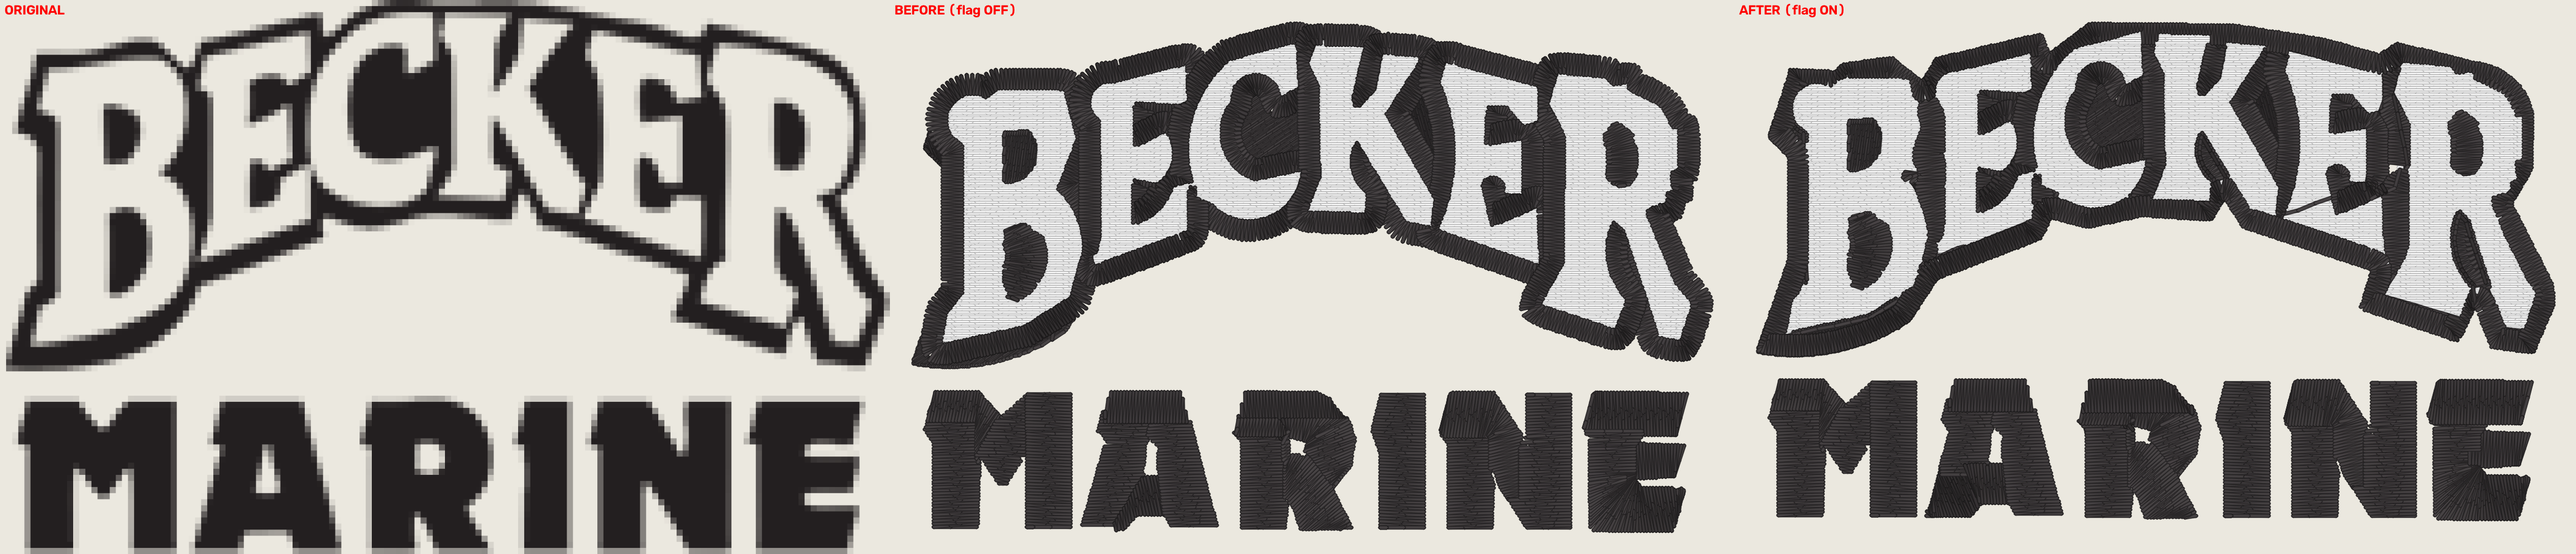
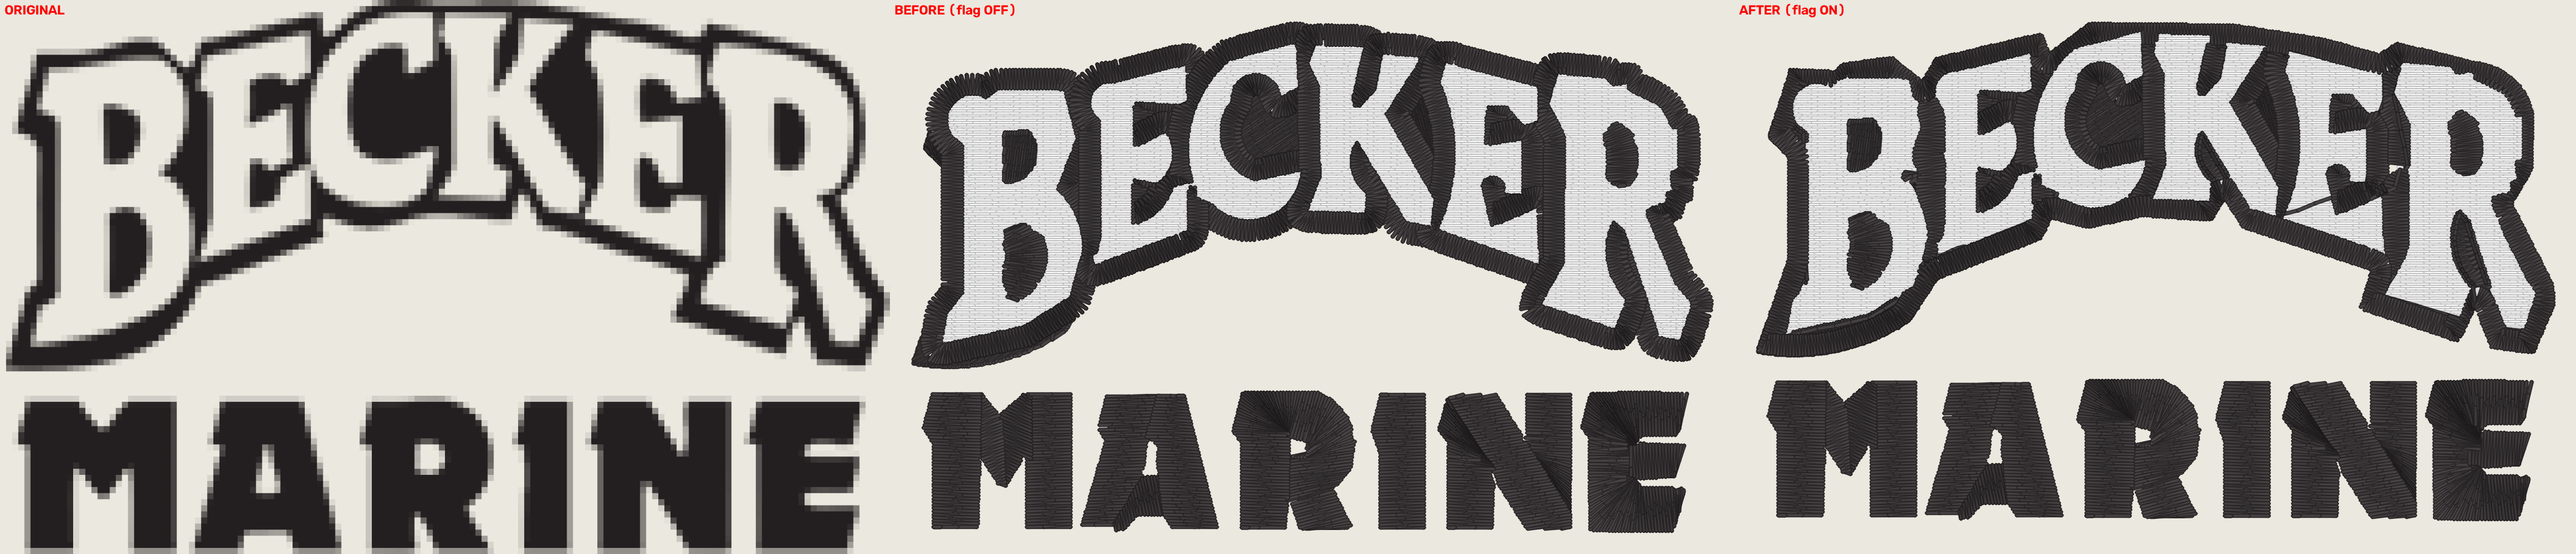
outline_one_band (OFF): the band ends where the loops ended, no walk over a stem; final evidence (#1663)
* outline_loop_split_shared (built OFF): two face loops no longer both cover the stem between letters (Becker large B/E dip)

Claude-Session: https://claude.ai/code/session_01SfRndLv1i9VX4t8JWKQRf4

* MEMORY.md: put the outline-loop-split-shared entry in alphabetical order (CI test_memory_budget)

Claude-Session: https://claude.ai/code/session_01SfRndLv1i9VX4t8JWKQRf4

* outline_one_band (built OFF): one border band round a word, a column for each stem between its faces (Becker large)

The outline is sewn as one satin loop on the band's outer ring, last, and one satin
column per stem between two faces, first; the hole loops keep only the strips neither
covers. 35 runs: 2 move, 33 byte-identical, OFF byte-identical on all 35.

Claude-Session: https://claude.ai/code/session_01SfRndNWG1h2hnYMnZLY5DV

* outline_one_band: walk between pieces inside the band (trims 19->20 on Becker large), cap-edge evidence, test_run_spans asserts the satin-arc emitter only with the flag OFF

Claude-Session: https://claude.ai/code/session_01SfRndNWG1h2hnYMnZLY5DV

* outline_one_band: end the band where the loops end (downstream order kept), walk inside the band, keep the outer loop out of faces; archive two index lines (memory budget)

Claude-Session: https://claude.ai/code/session_01SfRndNWG1h2hnYMnZLY5DV

* outline_one_band: no walk over a finished stem

Claude-Session: https://claude.ai/code/session_01SfRndNWG1h2hnYMnZLY5DV
[…]

diff --git a/digitizer/digitizer_core/outline_band.py b/digitizer/digitizer_core/outline_band.py
@@ -236,7 +236,7 @@ def _centre_walk(band: Polygon, centre: LineString | None, a, b):
 
 
 def _hop(runs: list, new: list, cursor, band: Polygon, shape_id: str, trim_at_mm: float,
-         centre: LineString | None = None, guides=None) -> int:
+         centre: LineString | None = None, guides=None, sewn=None) -> int:
     """The needle's way to the first stitch of `new`: through the band where a
     route exists (`travel_path`), else a lift, cut past `trim_at_mm`, as
     `keyline_runs` leaves its own loops. -> lifts made."""
@@ -246,9 +246,7 @@ def _hop(runs: list, new: list, cursor, band: Polygon, shape_id: str, trim_at_mm
     d = math.dist(cursor, to)
     if d < machine.TINY_STITCH_MM:
         return 0
-    bridge = travel_path(band, guides, cursor, to)
-    if bridge is None:
-        bridge = _centre_walk(band, centre, cursor, to)
+    bridge = _route(band, guides, centre, cursor, to, sewn)
     if bridge is None:
         new[0].jump = True
         new[0].trim = d > trim_at_mm
@@ -258,7 +256,21 @@ def _hop(runs: list, new: list, cursor, band: Polygon, shape_id: str, trim_at_mm
     return 0
 
 
-def _reroute(new: list, cursor, band: Polygon, shape_id: str, centre, guides) -> list:
+def _route(band: Polygon, guides, centre, a, b, sewn=None):
+    """The needle's way a -> b inside the band: along the band (`travel_path` on `guides`),
+    else round the outer loop's centre line; a route that runs over finished thread
+    (`sewn`: the stems already sewn) for more than half a millimetre is no route."""
+    for make in (lambda: travel_path(band, guides, a, b), lambda: _centre_walk(band, centre, a, b)):
+        r = make()
+        if r is None:
+            continue
+        if sewn is not None and len(r) > 1 and LineString(r).intersection(sewn).length > 0.5:
+            continue
+        return r
+    return None
+
+
+def _reroute(new: list, cursor, band: Polygon, shape_id: str, centre, guides, sewn=None) -> list:
     """`new` with every lift inside it (and the lift into it) walked through the band
     where a route exists (`_hop`), so the needle is cut only where none does."""
     out: list = []
@@ -270,9 +282,7 @@ def _reroute(new: list, cursor, band: Polygon, shape_id: str, centre, guides) ->
         if last is not None and (r.jump or r.trim):
             d = math.dist(last, r.points[0])
             if d >= machine.TINY_STITCH_MM:
-                bridge = travel_path(band, guides, last, r.points[0])
-                if bridge is None:
-                    bridge = _centre_walk(band, centre, last, r.points[0])
+                bridge = _route(band, guides, centre, last, r.points[0], sewn)
                 if bridge is not None:
                     if len(bridge) > 1:
                         out.append(StitchRun(points=bridge[:-1], kind=stitches.TRAVEL, shape_id=shape_id))
@@ -338,6 +348,7 @@ def one_band_runs(art: Polygon, rings: list[tuple[Polygon, float]], shape_id: st
             report["outline_loops"] += h_rep["loops"]
             cursor = runs[-1].points[-1]
     # the stems, each a satin column of its own: the outer loop covers the top of each
+    sewn = None
     todo = sorted(stems, key=lambda g: (round(g.centroid.y, 3), round(g.centroid.x, 3)))
     while todo:
         if cursor is None:
@@ -352,9 +363,10 @@ def one_band_runs(art: Polygon, rings: list[tuple[Polygon, float]], shape_id: st
                                     **satin_kw)
         if s_rep.get("empty") or not s_runs:
             return [], report                     # a stem the satin cannot sew: keep the loops
-        s_runs = _reroute(s_runs, cursor, art, shape_id, centre, guides)
-        report["jumps"] += _hop(runs, s_runs, cursor, art, shape_id, trim_at_mm, centre, guides)
+        s_runs = _reroute(s_runs, cursor, art, shape_id, centre, guides, sewn)
+        report["jumps"] += _hop(runs, s_runs, cursor, art, shape_id, trim_at_mm, centre, guides, sewn)
         runs += s_runs
+        sewn = piece.buffer(0.05) if sewn is None else sewn.union(piece.buffer(0.05))
         report["stems"] += 1
         cursor = runs[-1].points[-1]
     # ... and the one band on the outer ring, last
@@ -370,8 +382,8 @@ def one_band_runs(art: Polygon, rings: list[tuple[Polygon, float]], shape_id: st
         return [], report
     _keep_out_of_faces(o_runs, unary_union([h for h, _w in rings]).buffer(-0.0005),
                        LineString(list(art.exterior.coords)))
-    o_runs = _reroute(o_runs, cursor, art, shape_id, centre, guides)
-    report["jumps"] += _hop(runs, o_runs, cursor, art, shape_id, trim_at_mm, centre, guides)
+    o_runs = _reroute(o_runs, cursor, art, shape_id, centre, guides, sewn)
+    report["jumps"] += _hop(runs, o_runs, cursor, art, shape_id, trim_at_mm, centre, guides, sewn)
     runs += o_runs
     report["jumps"] += o_rep["jumps"]
     report["outline_loops"] += o_rep["loops"]

diff --git a/docs/renders/outline-one-band-2026-11-18/README.md b/docs/renders/outline-one-band-2026-11-18/README.md
@@ -22,8 +22,8 @@ outline shape (`S92f2350b`: 1201 mm2, 5 face holes at 102 mm) is sewn differentl
 
 | | stitches | runs | trims | jumps | outline runs by kind OFF -> ON |
 |---|---|---|---|---|---|
-| becker_hat_large | 16265 -> 16195 | 182 -> 268 | 19 -> 20 | 20 -> 20 | satin 5 -> ~56, travel 8 -> ~35, underlay 7 -> 7, fill 4 -> 4, run 0 -> 1 |
-| fx_becker_marine_logo (80 mm) | 10672 -> 10403 | 156 -> 195 | 15 -> 19 | 16 -> 22 | satin 5 -> ~37, travel 7 -> ~14, fill 2 -> 2 |
+| becker_hat_large | 16287 -> 16289 | 164 -> 246 | 20 -> 21 | 20 -> 21 | satin 5 -> ~56, travel 8 -> ~35, underlay 7 -> 7, fill 4 -> 4, run 0 -> 1 |
+| fx_becker_marine_logo (80 mm) | 10855 -> 10500 | 137 -> 183 | 14 -> 20 | 14 -> 20 | satin 5 -> ~37, travel 7 -> ~14, fill 2 -> 2 |
 
 What is new: ONE satin loop on the band's outer ring (last), one satin column per stem
 (the B/E stem is one 20 mm column, the E/R stem another, a third at the lower-right), the
@@ -35,12 +35,12 @@ count and the trims come from), and travel inside the band under the outer loop.
 Better: the border passes the dip as one band, the stem is one column, no pile of two
 loops (before: two columns side by side down the stem, both fanning into the V). The
 E/R join is the same. **Worse:**
-* **Trims 19 -> 20 on Becker large (jumps 20 -> 20), 15 -> 19 at 80 mm (jumps 16 -> 22).**
-  First build: 19 -> 31. The needle now walks between the pieces inside the band
-  (`travel_path` along the band moved in 0.35 mm, else along the outer loop's centre
-  line), under the outer loop sewn last, and the stems go nearest-first. What is left:
-  the first hole arc (as OFF), two far hole arcs in the E/R stem, a stem's tail sewn as
-  a run, and the 80 mm design's extra arcs.
+* **Trims +1 on Becker large (20 -> 21, jumps 20 -> 21); +6 at 80 mm (14 -> 20).**
+  First build: +12 on Becker large. The needle walks between the pieces inside the band
+  (`travel_path` along the band moved in 0.35 mm, else along the outer loop's centre line,
+  never over a finished stem), under the outer loop sewn last; stems nearest-first; the
+  outer loop is entered where the loops it replaces would have ended. What is left: a stem's
+  tail sewn as a run, a far hole arc or two, and the 80 mm design's extra arcs.
 * A few thin black strips (0.5-1 mm satin arcs) along the face edge where the band is a
   little thicker than the outer loop reaches; they read as lines at print size.
 * A tiny white slit beside the B/E stem's lower column (closeup 3) and at the E/R
@@ -48,20 +48,52 @@ E/R join is the same. **Worse:**
 * At the V the outer loop's crosses still turn with the band's normal (they bunch in the
   notch); the pro's stay near-square to the band. Closer than before, not the pro's.
 
-## Related tests with the flag forced ON (227 files)
+## ALL 18 tripwire jobs (every placement) + the 26 fixtures, OFF vs ON (director 11-18, final build)
 
-3,978 passed, 7 failed. With the flag OFF (the default) all pass.
-* `test_flat_lane_byte_identical[enthusiast_logo]`: the known golden red.
+44 runs by stitch md5: **6 moved, 38 byte-identical.** The 35-run table above missed four
+(second placements of the same artwork). Needle-up = the straight gap the needle flies at each
+lift (`pro_baseline.needle_up`'s rule, from the design's stitch list).
+
+| run | stitches | trims | jumps | needle-up mm |
+|---|---|---|---|---|
+| becker_hat_large | 16,246 -> 16,246 | 19 -> 20 | 20 -> 21 | 489.6 -> **672.5** |
+| becker_hat_small | 10,319 -> 9,851 | 10 -> **18** | 14 -> 23 | 306.3 -> 319.0 |
+| becker_chest_small | 10,156 -> 9,698 | 9 -> **16** | 13 -> 21 | 303.5 -> 292.5 |
+| becker_beanie | 13,653 -> 13,330 | 13 -> **19** | 15 -> 21 | 385.0 -> 375.0 |
+| mfab_lc | 17,570 -> **18,467** | 19 -> 23 | 29 -> 33 | 504.9 -> 586.6 |
+| fx_becker_marine_logo (80 mm) | 10,826 -> 10,459 | 13 -> 19 | 14 -> 20 | 380.4 -> 362.9 |
+
+(becker_lc_large and the other 38 do not move.) All six pictured: `<run>.png`, `<run>_closeup.png`.
+
+**By eye, worse first:**
+* **becker_hat_small**: ON draws a white (bare) curved sliver across the top of the K where the
+  stem top meets the band (overview, AFTER, K top), and the band edge is rougher; trims 10 -> 18.
+* becker_chest_small, becker_beanie: same family as the small hat (trims +7 / +6).
+* becker_hat_large: needle-up travel +183 mm (more lifts between far pieces), trims +1.
+* **mfab_lc**: +897 stitches (+5%), +4 trims, +82 mm needle-up; no visible change at print size
+  (the white keyline reads the same). The gate was met by the LC placement's letters and stems.
+* The 102 mm and 80 mm Becker pictures above stand: one stem column, one continuous band.
+
+**Conclusion of this sweep: not ready to flip.** The small placements (76-80 mm) gain trims and one
+visible bare sliver; the grader's design (102 mm) gains the clean stem at +183 mm of needle-up.
+
+## Related tests with the flag forced ON (227 files, final build)
+
+3,985 passed, 4 failed. With the flag OFF (the default) all pass. The 4:
+* `test_flat_lane_byte_identical[enthusiast_logo]`: the known golden red (CI deselects it).
 * `test_outline_one_band::test_field_defaults_off`: the default forced for the run.
-* `test_silhouette_underfill_panels` (2): md5 pins of Becker / MFab stitch bytes.
-* `test_wide_columns::test_the_fold_guard_keeps_a_wide_column_on_a_bend_under_the_warn_line`:
-  `coverage_max` 6.14 -> 6.71 against the 6.667 warn line, at ONE cell on a MARINE letter
-  (`S3747f7f5`, one hole: the flag does not sew it differently; its entry point moves, so its
-  column is re-phased).
-* `test_run_spans::test_the_design_cap_keeps_its_own_role_through_the_border_emitter`:
-  the Becker fixture's design cap has no BORDER-kind stitch with the flag ON (the outer
-  loop covers the edge the cap would have sewn).
-No test was pinned OFF; the director has both guard figures.
+* `test_silhouette_underfill_panels` (2): md5 pins of Becker / MFab stitch bytes (a flip
+  would re-pin them).
+Two guard figures moved the wrong way in earlier builds and are now back:
+* `test_wide_columns` fold-guard test: `coverage_max` on Becker 114 mm was 6.14 OFF, 6.71 ON
+  (warn line 6.667): the outline's exit point had re-ordered MARINE's letters. The band now
+  ends where the loops it replaces would have ended: the order is the same, **6.14 OFF, 6.39
+  ON**, no cell over the line (`outline_band._loops_exit`).
+* `test_border_from_outline` thin-ring test: an outer-loop cross grazed a face corner; the far
+  end is now pulled back to the face's edge (`_keep_out_of_faces`, own test).
+* `test_run_spans` design-cap test: with the flag ON the cap has no satin-arc (BORDER-kind)
+  stitch, the outer loop sews that edge; the test asserts the emitter only with the flag OFF
+  (its role assertion holds either way); bare area is not worse (below).
 
 **The design cap with the flag ON** (director item 3): bare area is not worse, it
 falls. Becker at 80 mm in that test's config: uncovered area 10.5 -> 3.1 mm2, worst patch

diff --git a/.claude/memory/outline-one-band-2026-11-18.md b/.claude/memory/outline-one-band-2026-11-18.md
@@ -11,8 +11,9 @@ group, then the satin: stem column first, then ONE border band over the top acro
 fan). `digitizer_core/outline_band.py`: stems (sum of distances to two faces under two widths, outside the outer
 zone, elongated), hole loops for the leftover strips (arcs, walks under the outer loop), ONE outer-ring loop last.
 Doc `docs/outline-one-band-2026-11-18.md`, pictures `docs/renders/outline-one-band-2026-11-18/`.
-35 runs: 2 move (becker_hat_large, fx_becker_marine_logo), OFF byte-identical. Cost: trims 19 -> 31, jumps 20 -> 32.
-With the flag ON: `test_wide_columns` coverage_max 6.14 -> 6.71 (warn 6.667) at one MARINE-letter cell (re-phased by the
-outline's different exit point); `test_run_spans` design cap has no BORDER-kind stitch. A raster `_sum_mask_polys`
+35 runs: 2 move (becker_hat_large, fx_becker_marine_logo), OFF byte-identical. Final: Becker large trims 20 -> 21 (first build 19 -> 31), 80 mm 14 -> 20. The band ends where the replaced loops ended
+(`_loops_exit`), else MARINE's letter order changes (coverage_max 6.71 over the 6.667 line, back to 6.39). The walks
+between pieces must not cross a finished stem (thin lines on top). `test_run_spans` asserts the satin-arc emitter only
+with the flag OFF. ON tests: 4 fail, all known (golden, forced default, two md5 pins). A raster `_sum_mask_polys`
 finds stems; do NOT take stems as band minus outer zone (those merge into 60-150 mm2 blobs). Related:
 [[outline-loop-split-shared-2026-11-18]], [[border-from-outline-2026-10-24]].
